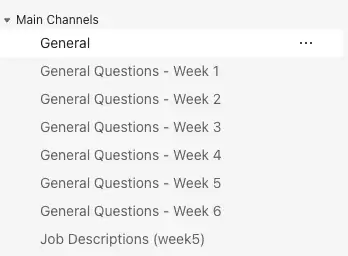
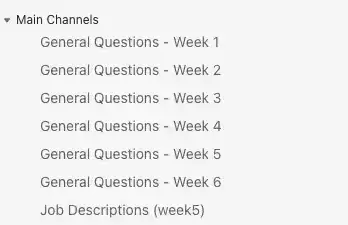
new term

diff --git a/index.html b/index.html
@@ -62,7 +62,7 @@
         </div>
       </section> <!-- End of this section -->
 
-      <section class="task">
+      <section class="canvas">
         <button class="wk0c"></button>
         <p>Change the Canvas Information.</p>
         <div>
@@ -89,7 +89,7 @@
 
       <section class="task">
         <button class="wk0d"></button>
-        <p>Connect Teams and Canvas</p>
+        <p>Connect Canvas to MS Teams</p>
         <div>
           <p>Open Canvas, select settings, click the "Intergrations" tab and activate Microsoft Sync. Click the "Sync
             Now"
@@ -115,18 +115,15 @@
 
       <section class="teams">
         <button class="wk0e"></button>
-        <p>Post a message in Teams</p>
+        <p>Rename the "General" channel to "General Questions - Week 1"</p>
         <div>
-          <p>Post a message NOT to use the "General Channel".</p>
-          <p>SUBJECT: Use "General Questions" channels <br>
-            General Questions week 1-6<br>Please use Teams General Questions- Week 1-6 Channels to ask and answer questions about each assignment. I have created a separate channel for each weeks class discussions to make it easier to...<br>post questions<br>get help from classmates<br>find answers<br>Please do not post to this general channel.</p>
-          <img src="images/teams-message.webp">
+          <img src="images/teams-general.webp">
         </div>
       </section> <!-- End of this section -->
 
 
 
-      <section class="task">
+      <section class="teams">
         <button class="wk0f"></button>
         <p>Change the Teams Information.</p>
         <div>
@@ -156,11 +153,11 @@
 
 
 
-      <section class="task">
+      <section class="teams">
         <button class="wk0g"></button>
         <p>Add Five standard MS Teams channels for the weekly discussions</p>
         <div>
-          <p>Add a class channel for each week for class discussions "General Questions - Week 1" etc.</p>
+          <p>Add a class channel for each week for class discussions "General Questions - Week 2" etc.</p>
           <img src="images/channels-general.webp">
           <p>Select "Standard" channel</p>
           <img src="images/teams-standard.webp">
